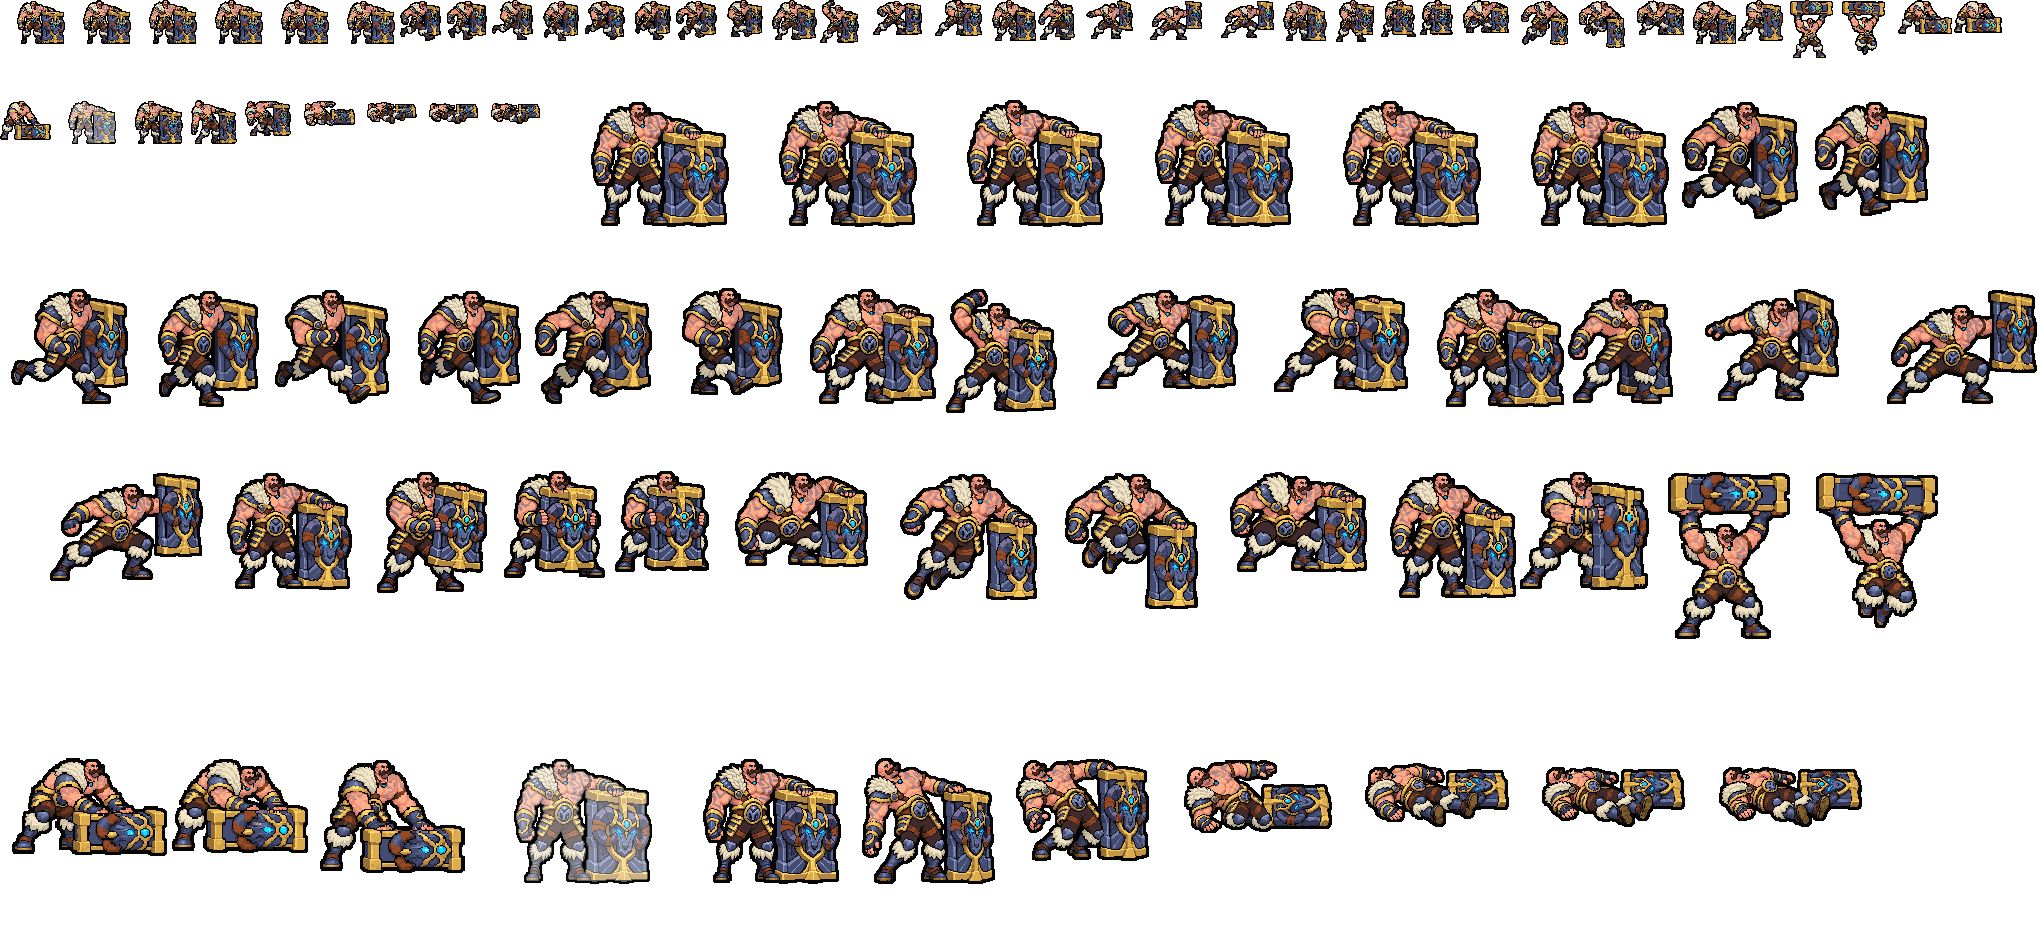
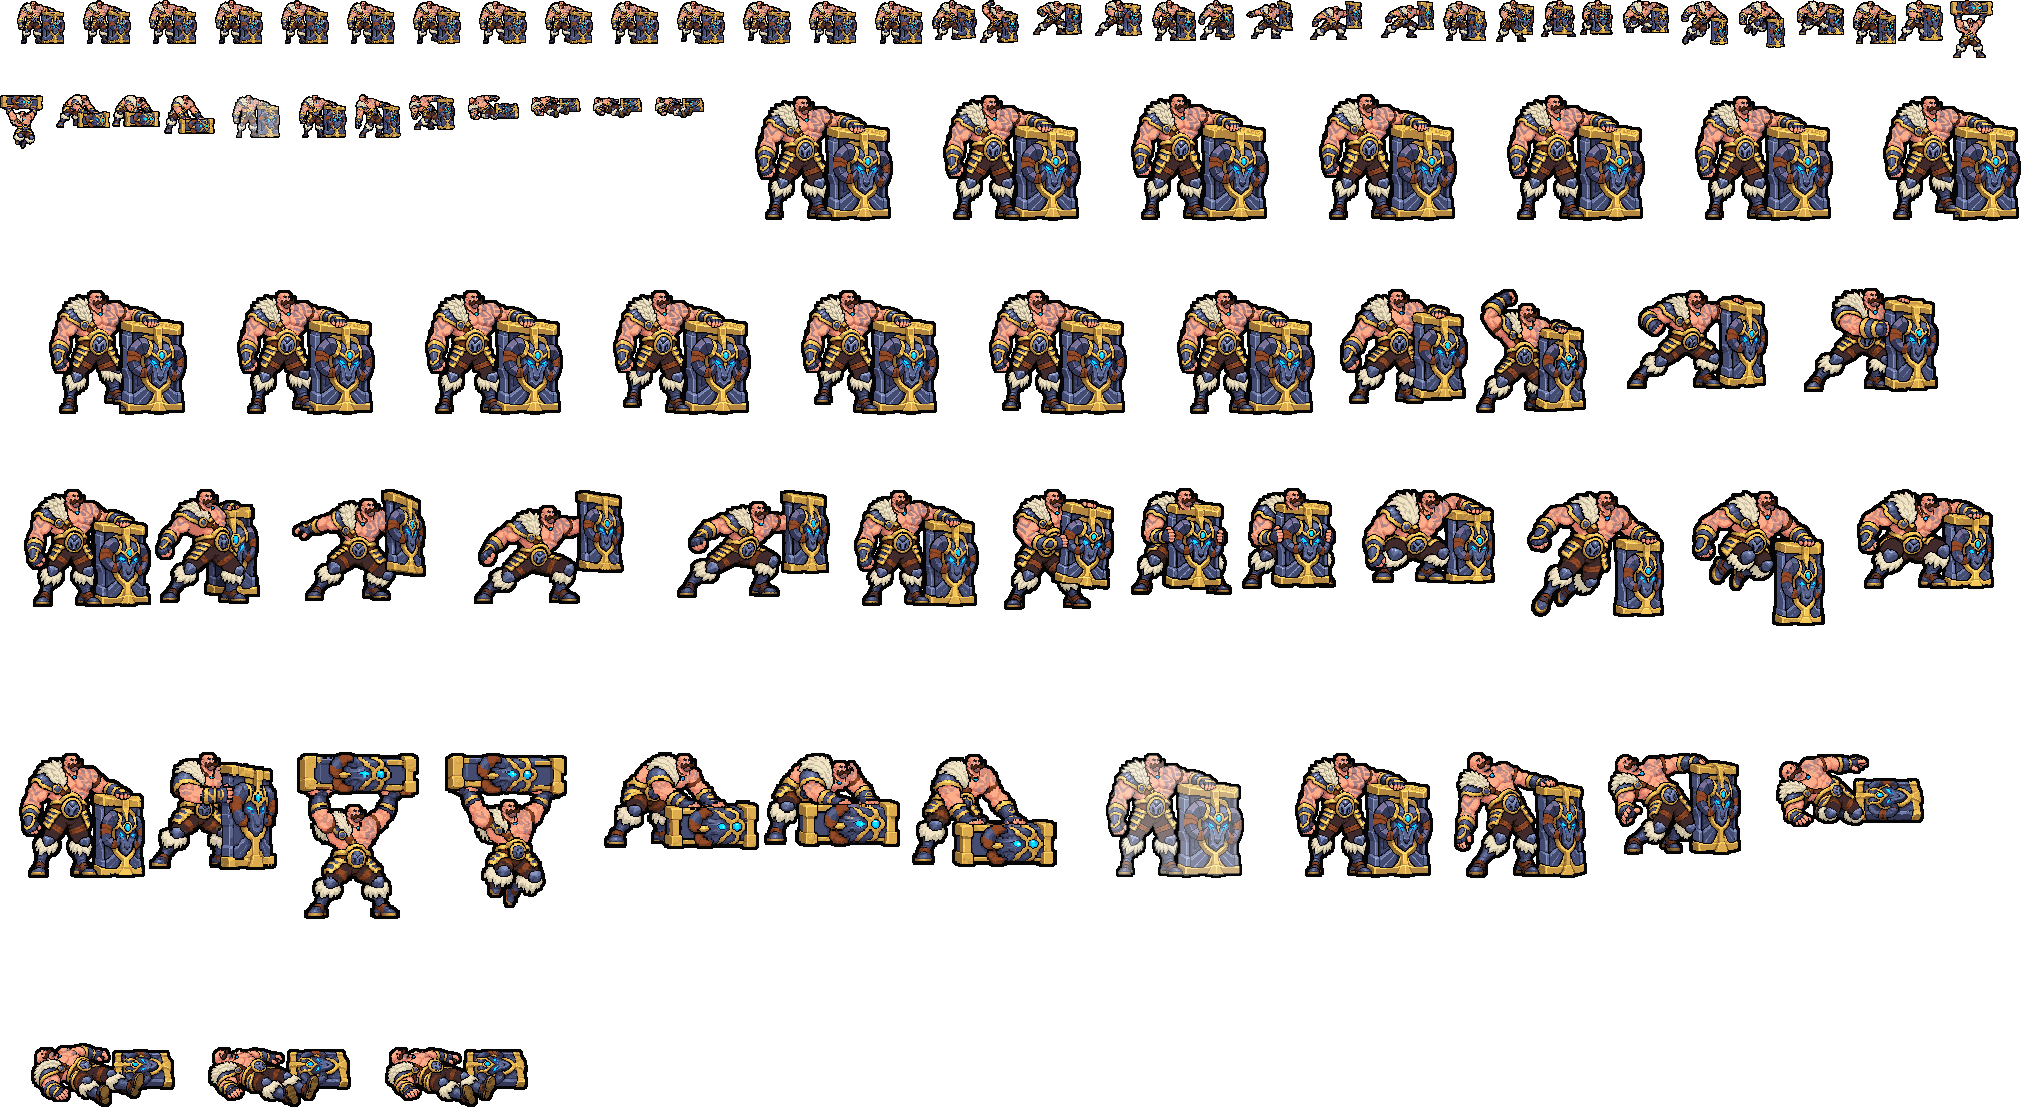
league_braum run = league_nautilus's approved walk on the idle (rig_braum walk_frame / WALK): the idle's own legs cut under the hip band and lifted in turn (top rows dropped, 3 columns forward), the body, head and shield the idle's, the figure rising 0-6 hd rows; cracks the step opens filled with th

diff --git a/tools/art/rig_braum.py b/tools/art/rig_braum.py
@@ -9,7 +9,10 @@ one about a game pixel, like the base heroes' and the 1x pack heroes'; Kassadin'
 The idle breathes (Kassadin's lesson: 「可能卡萨丁像个僵尸？」): the upper body - head, torso, both arms with the far
 hand on the shield's crossbar - rises BREATH hd rows over the legs and the shield as one piece (no part turned or
 sheared); the squares it uncovers take the colour of the square under them (the belt's row repeated over the waist,
-the crossbar's top under the lifted hand).
+the crossbar's top under the lifted hand). The run is league_nautilus's approved walk on the idle (walk_frame / WALK):
+the idle's own legs lifted in turn under the same body and shield - Codex's run (its step-2 strips and the crossing-step
+redraw in codex_run) kept one leg in front in every frame (the user: 「怎么感觉腿不换位？」), and bone-drawn legs came out
+deformed (「腿都变形了哥 现在这么多做好的英雄你不会参考吗」).
 Writes:
   league/champions/league_braum#sheet.png / #anim.fanim - the 1x tags (each hd frame brought down by PPU, every 1x
       pixel the commonest colour of its squares; the fallback without league.dll), frames centred on the pivot
@@ -129,6 +132,58 @@ def down(can):
     return one, hd
 
 
+# the run: league_nautilus's approved walk (tools/art/fix_nautilus_strips2.py walk_frame / WALK: the user,
+# 「腿都变形了哥 现在这么多做好的英雄你不会参考吗」 after Codex's run kept one leg in front in every frame and a bone-drawn
+# leg came out deformed). The idle's body, the shield, the head and both legs as they are - the legs cut under the hip
+# band (row LEG_BAND of the design) into the near leg (columns up to LEG_SPLIT) and the far one (to the shield's edge
+# SHIELD_EDGE); in each frame a leg is lifted by losing its top rows (the thigh turned toward us) and moved forward, the
+# legs take turns, and the whole figure rises a little; no part turned or stretched.
+LEG_BAND = 78                    # the design's row under the hip band: the legs start below it
+LEG_SPLIT = 43                   # the column between the legs
+SHIELD_EDGE = 70                 # the shield's left outline column: the far leg ends left of it
+# per frame: the near leg's (columns forward, rows lifted), the far leg's, the figure's rise (hd squares: league_nautilus's
+# 1x steps x 3)
+WALK = [((0, 0), (0, 6), 3), ((0, 0), (3, 9), 6), ((0, 0), (3, 3), 3), ((0, 0), (3, 0), 0),
+        ((0, 6), (0, 0), 3), ((3, 9), (0, 0), 6), ((3, 3), (0, 0), 3), ((3, 0), (0, 0), 0)]
+WALK_MS = 115
+CRACK = 80                       # enclosed gaps this small that a step opens are cracks, filled with the outline
+
+
+def walk_frame(idle, near_step, far_step, rise):
+    """The idle canvas with the legs stepping: each leg's squares under the band moved (dx, -lift) after losing their
+    top `lift` rows; the far leg first, the near one over it, the body over both; the whole frame `rise` rows up."""
+    x0, y0 = I.DESIGN_AT
+    band = y0 + LEG_BAND
+    H, W = idle.shape[:2]
+    yy, xx = np.mgrid[0:H, 0:W]
+    op = idle[..., 3] > 0
+    near = op & (yy > band) & (xx <= x0 + LEG_SPLIT)
+    far = op & (yy > band) & (xx > x0 + LEG_SPLIT) & (xx < x0 + SHIELD_EDGE)
+    out = idle.copy()
+    out[near | far] = 0
+    body = out.copy()
+    out[:] = 0
+    for m, (dx, lift) in ((far, far_step), (near, near_step)):
+        leg = np.where(m[..., None], idle, 0).astype(np.uint8)
+        leg[:band + 1 + lift] = 0
+        ys, xs = np.nonzero(leg[..., 3] > 0)
+        ok = (ys - lift >= 0) & (xs + dx < W)
+        out[ys[ok] - lift, xs[ok] + dx] = leg[ys[ok], xs[ok]]
+    m = body[..., 3] > 0
+    out[m] = body[m]
+    # cracks the step opened (the far leg moved toward the shield's outline: the idle's gap between them squeezed to
+    # slivers): enclosed gaps of at most CRACK squares, new ones or at most 3 columns wide, take the outline (gap-check)
+    opq = out[..., 3] > 0
+    lab, n = ndimage.label(ndimage.binary_fill_holes(opq) & ~opq)
+    own = ndimage.binary_fill_holes(idle[..., 3] > 0) & ~(idle[..., 3] > 0)
+    for j in range(1, n + 1):
+        hole = lab == j
+        xs = np.nonzero(hole.any(0))[0]
+        if hole.sum() <= CRACK and (xs.max() - xs.min() < 3 or not (hole & own).any()):
+            out[hole] = (*OUTLINE, 255)
+    return np.roll(out, -rise, axis=0)
+
+
 def actions():
     """{tag: [(hd canvas, ms)]}: the imported frames, the idle breathing."""
     fr = json.load(open(os.path.join(FRAMES, "frames.json"), encoding="utf-8"))
@@ -140,7 +195,8 @@ def actions():
     x0, y0 = I.DESIGN_AT
     mask[y0:y0 + d.shape[0], x0:x0 + d.shape[1]] = upper_mask(d)
     out["idle"] = [(breathe(idle, mask, k), ms(10)) for k in BREATH]
-    for tag in ("run", "attack", "skill", "skill2", "w_leap", "ult", "hit", "dead"):
+    out["run"] = [(walk_frame(idle, n_, f_, r_), WALK_MS) for n_, f_, r_ in WALK]
+    for tag in ("attack", "skill", "skill2", "w_leap", "ult", "hit", "dead"):
         out[tag] = [(load(n), t) for n, t in fr[tag]]
     return out
 
